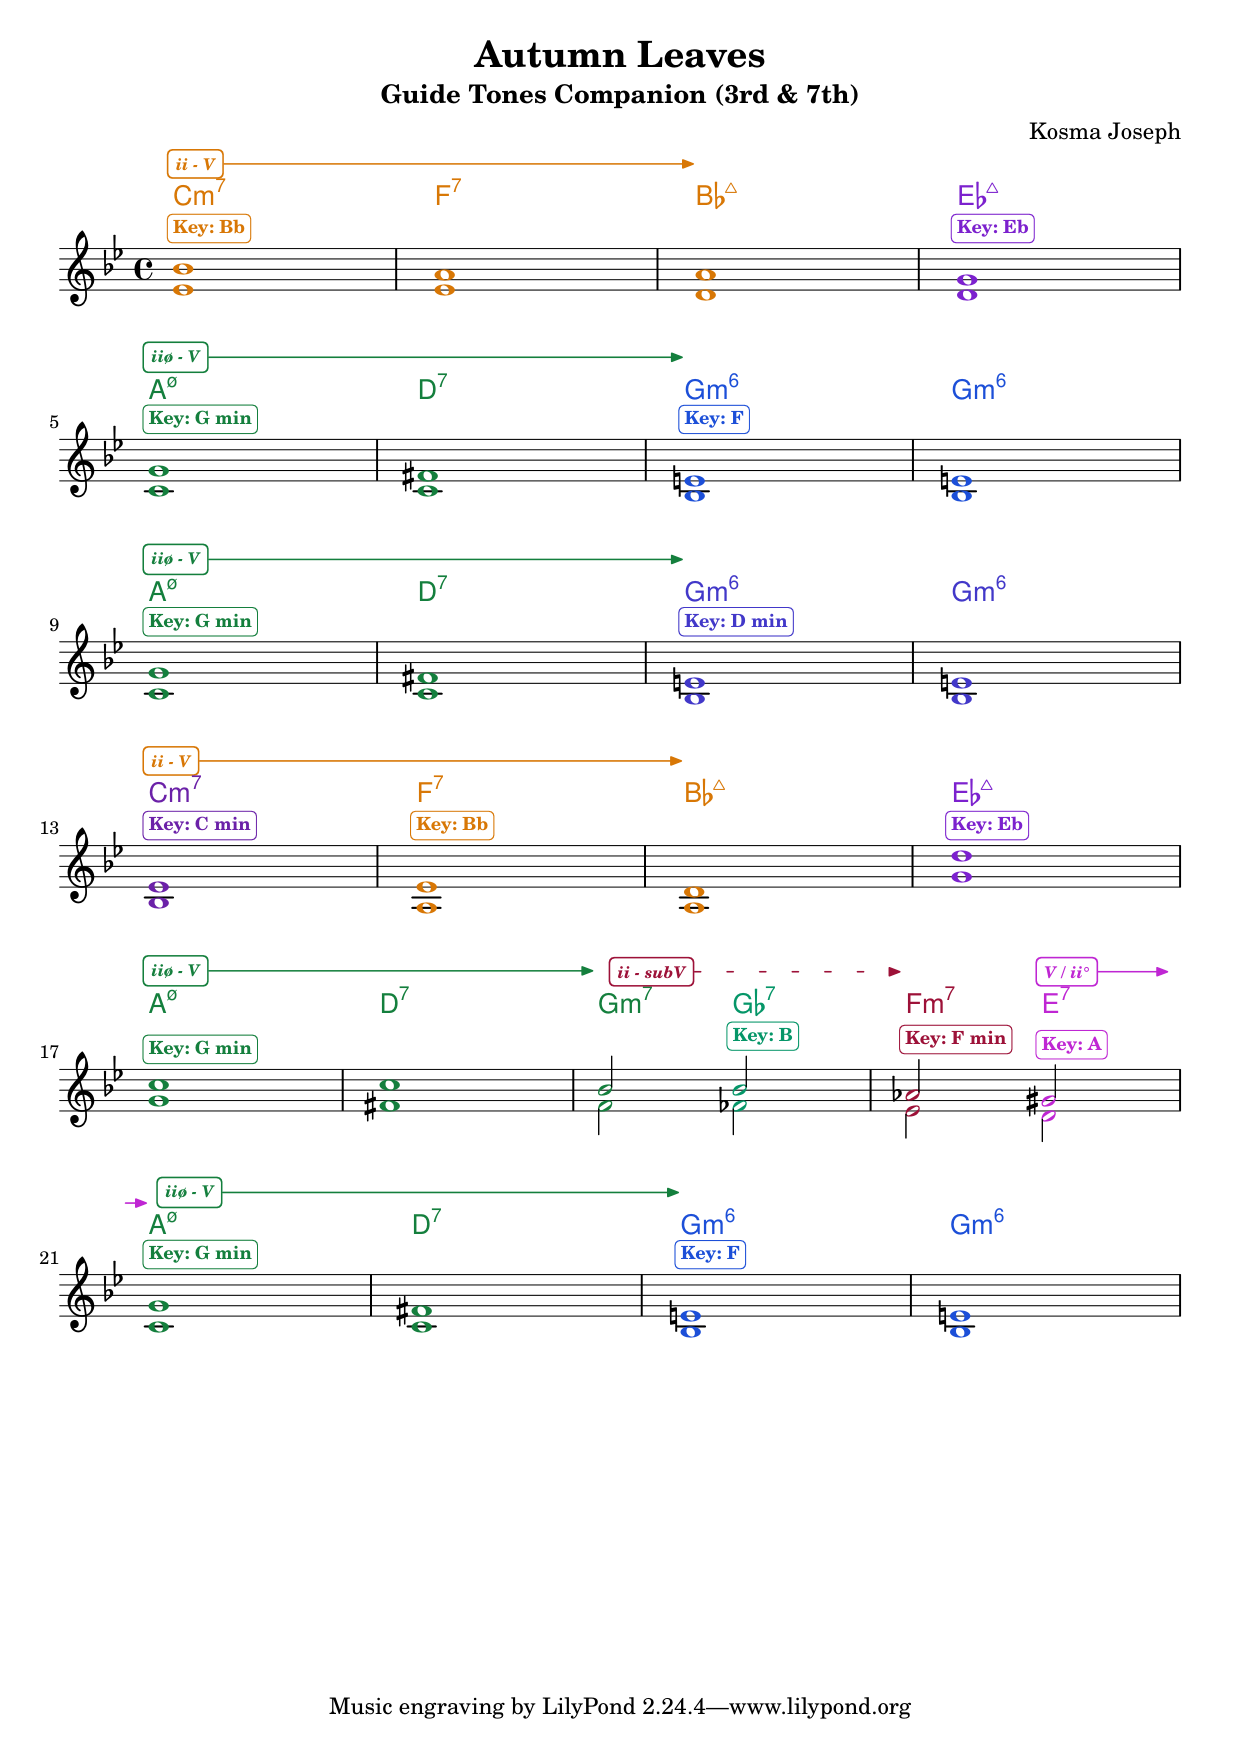
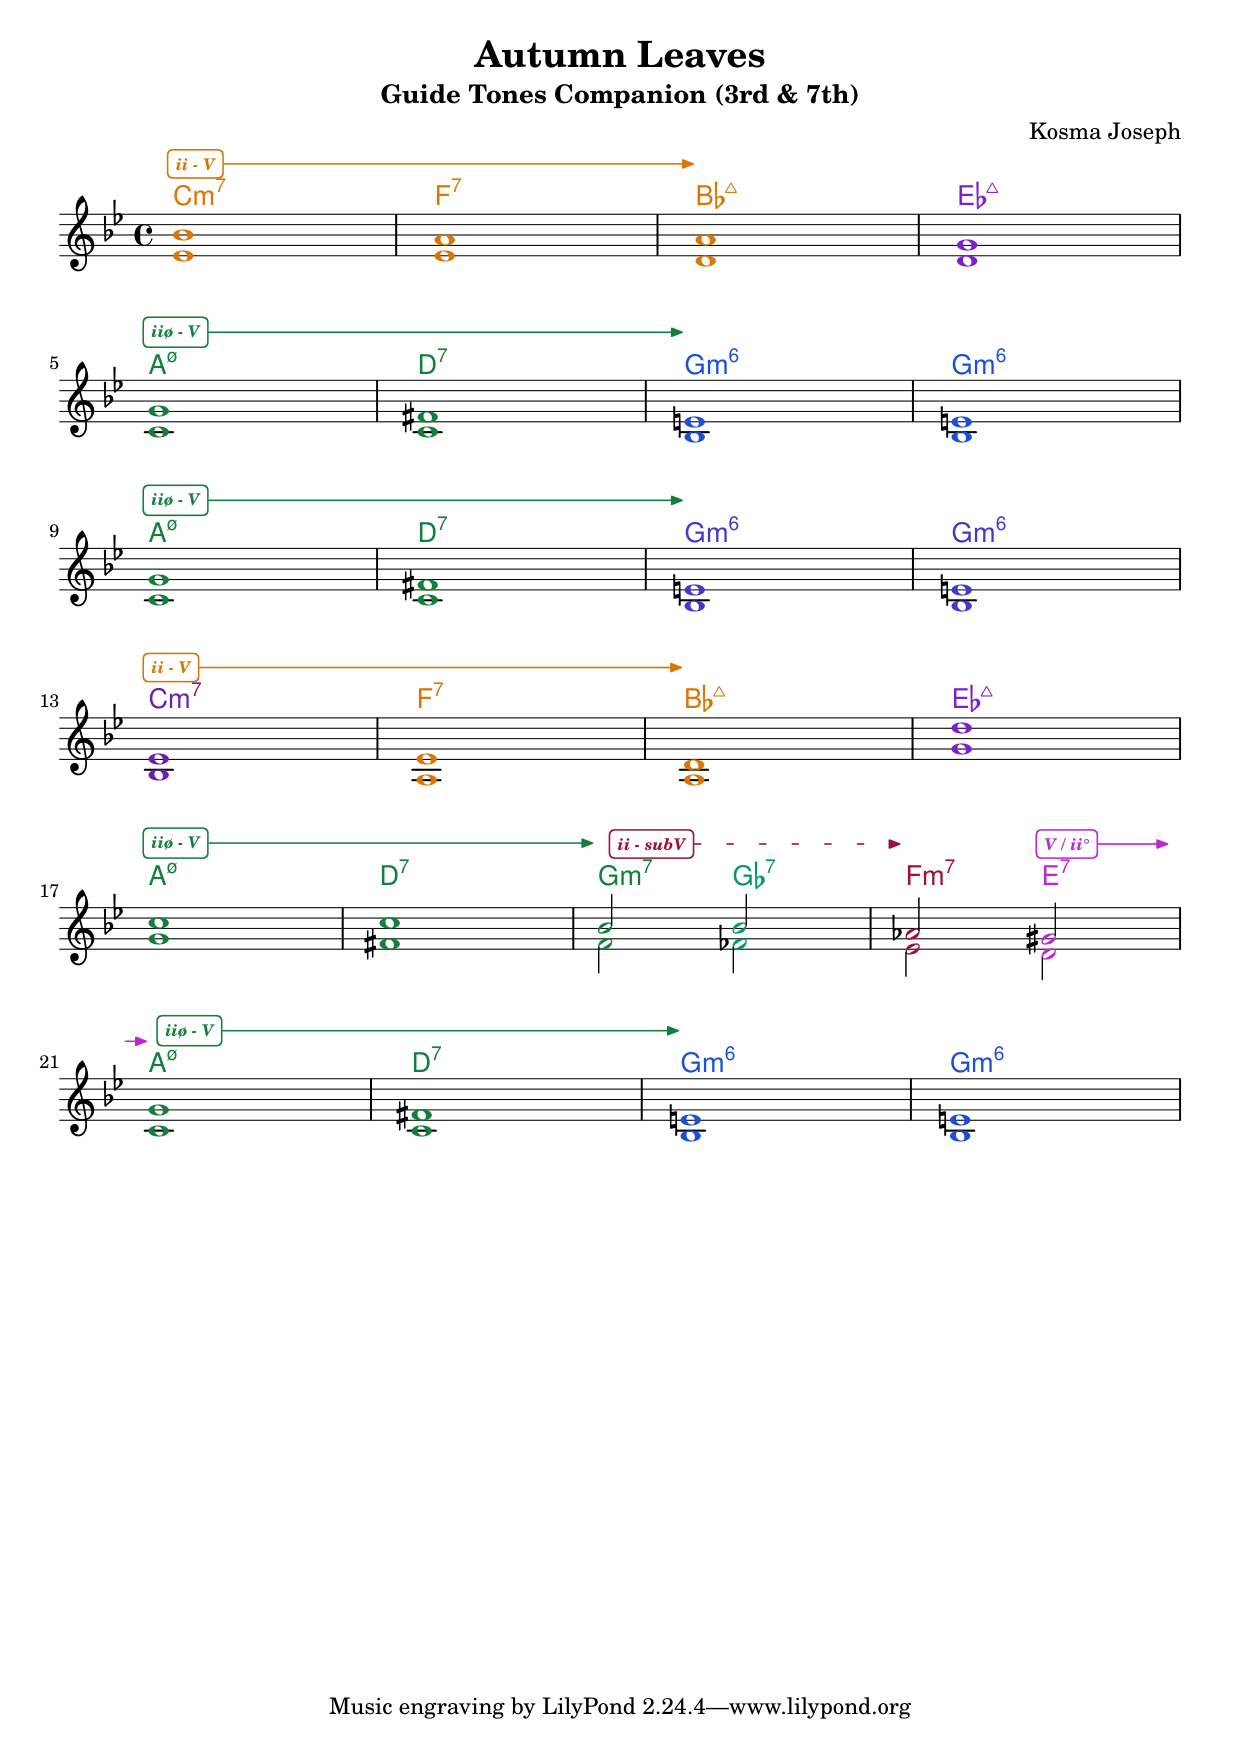
feat(engrave): remove noisy key badges by default and clean badge prefix
- Set default annotation configuration to show Berklee harmonic devices only
- Strip redundant 'Key:' prefix from tonal center markup when --keys is enabled
- Update README documentation and score preview assets for Autumn Leaves and Blue Bossa

Changed region(s): [[0.0306, 0.0924, 0.9492, 0.6465], [0.0306, 0.6773, 0.9492, 0.7697]]

diff --git a/main.go b/main.go
@@ -26,9 +26,9 @@ func printUsage() {
 	fmt.Println("  -o string            Output MusicXML path (default: <title>_guide_tones.musicxml)")
 	fmt.Println("  --pdf                Compile print-ready PDF via system LilyPond")
 	fmt.Println("  --bars int           Measures per line (default: auto - 4 for <= 16 bars, 8 for standard tunes, auto-scaled if longer)")
-	fmt.Println("  --annotations string Annotations to include: all, none, keys, devices (comma-separated, default: all)")
-	fmt.Println("  --keys / --no-keys   Include / omit tonal center key badges")
-	fmt.Println("  --devices / --no-devices Include / omit Berklee harmonic device brackets (ii-V, etc.)")
+	fmt.Println("  --annotations string Annotations to include: all, none, keys, devices (comma-separated, default: devices)")
+	fmt.Println("  --keys / --no-keys   Include / omit tonal center key badges (default: off)")
+	fmt.Println("  --devices / --no-devices Include / omit Berklee harmonic device brackets (ii-V, etc., default: on)")
 	fmt.Println()
 }
 
@@ -213,8 +213,8 @@ func main() {
 		outFile := compCmd.String("o", "", "Output MusicXML file path")
 		pdfFlag := compCmd.Bool("pdf", false, "Compile PDF using LilyPond")
 		barsFlag := compCmd.Int("bars", 0, "Target measures per line (default: auto)")
-		annotationsFlag := compCmd.String("annotations", "all", "Annotations to include: all, none, keys, devices (comma-separated)")
-		keysFlag := compCmd.Bool("keys", true, "Include key center annotations")
+		annotationsFlag := compCmd.String("annotations", "devices", "Annotations to include: all, none, keys, devices (comma-separated)")
+		keysFlag := compCmd.Bool("keys", false, "Include key center annotations")
 		noKeysFlag := compCmd.Bool("no-keys", false, "Omit key center annotations")
 		devicesFlag := compCmd.Bool("devices", true, "Include harmonic device annotations")
 		noDevicesFlag := compCmd.Bool("no-devices", false, "Omit harmonic device annotations")

diff --git a/lilypond.go b/lilypond.go
@@ -149,10 +149,10 @@ type AnnotationConfig struct {
 	ShowDevices bool // Berklee-style harmonic devices (ii-V brackets, arrows, etc.)
 }
 
-// DefaultAnnotationConfig returns the default configuration with all annotations enabled.
+// DefaultAnnotationConfig returns the default configuration with harmonic devices enabled and key badges disabled.
 func DefaultAnnotationConfig() AnnotationConfig {
 	return AnnotationConfig{
-		ShowKeys:    true,
+		ShowKeys:    false,
 		ShowDevices: true,
 	}
 }
@@ -296,7 +296,7 @@ func GenerateLilyPondScoreWithAnnotationConfig(tune *Tune, userBars int, cfg Ann
 				}
 				markupSuffix := ""
 				if cfg.ShowKeys && tc.IsTonalCenterChange && tc.TonalCenter != "" {
-					markupSuffix = fmt.Sprintf("^\\markup { \\with-color #%s \\rounded-box \\bold \\fontsize #-2 \"Key: %s\" }", tc.TonalCenterColor, tc.TonalCenter)
+					markupSuffix = fmt.Sprintf("^\\markup { \\with-color #%s \\rounded-box \\bold \\fontsize #-2 \"%s\" }", tc.TonalCenterColor, tc.TonalCenter)
 				}
 				upperBuf.WriteString(fmt.Sprintf("%s%s%s%s ", colorPrefix, lilypondPitch(p), lilypondDuration(dur), markupSuffix))
 				v1Pos += dur

diff --git a/README.md b/README.md
@@ -108,20 +108,15 @@ jazz-tools companion "MySetlist.html" --pdf
 Fine-tune annotations according to your rehearsal or pedagogical needs:
 
 ```bash
-# Default: both Berklee harmonic devices and tonal key badges enabled
+# Default: Berklee harmonic devices (ii-V brackets & arrows) enabled:
 jazz-tools companion Autumn_Leaves.musicxml --pdf
 
-# Only show key center badges (no brackets/arrows)
-jazz-tools companion Autumn_Leaves.musicxml --pdf --no-devices
+# Also include tonal center key badges:
+jazz-tools companion Autumn_Leaves.musicxml --pdf --keys
 # or:
-jazz-tools companion Autumn_Leaves.musicxml --pdf --annotations keys
+jazz-tools companion Autumn_Leaves.musicxml --pdf --annotations all
 
-# Only show Berklee brackets and resolution arrows (no key badges)
-jazz-tools companion Autumn_Leaves.musicxml --pdf --no-keys
-# or:
-jazz-tools companion Autumn_Leaves.musicxml --pdf --annotations devices
-
-# Clean score with only chords and guide tones
+# Clean score with only chords and guide tones (no annotations):
 jazz-tools companion Autumn_Leaves.musicxml --pdf --annotations none
 
 # Manually override measures per system (e.g. 4 bars per line):
